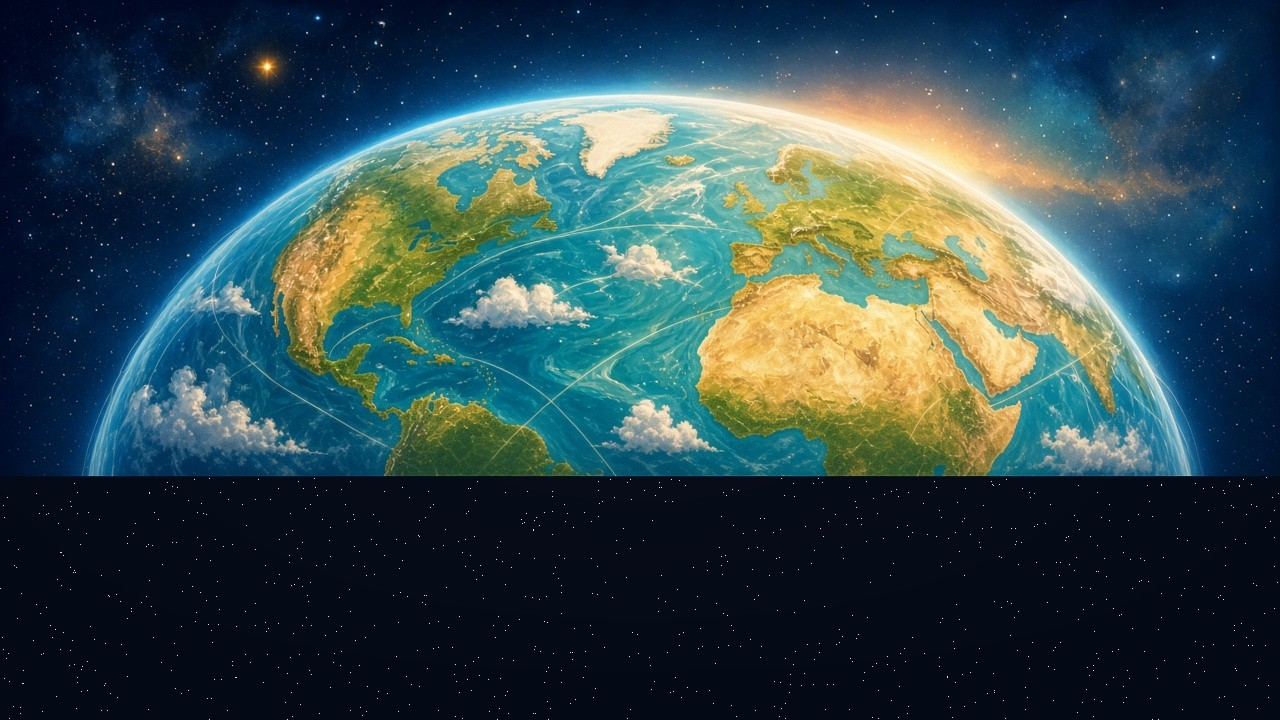
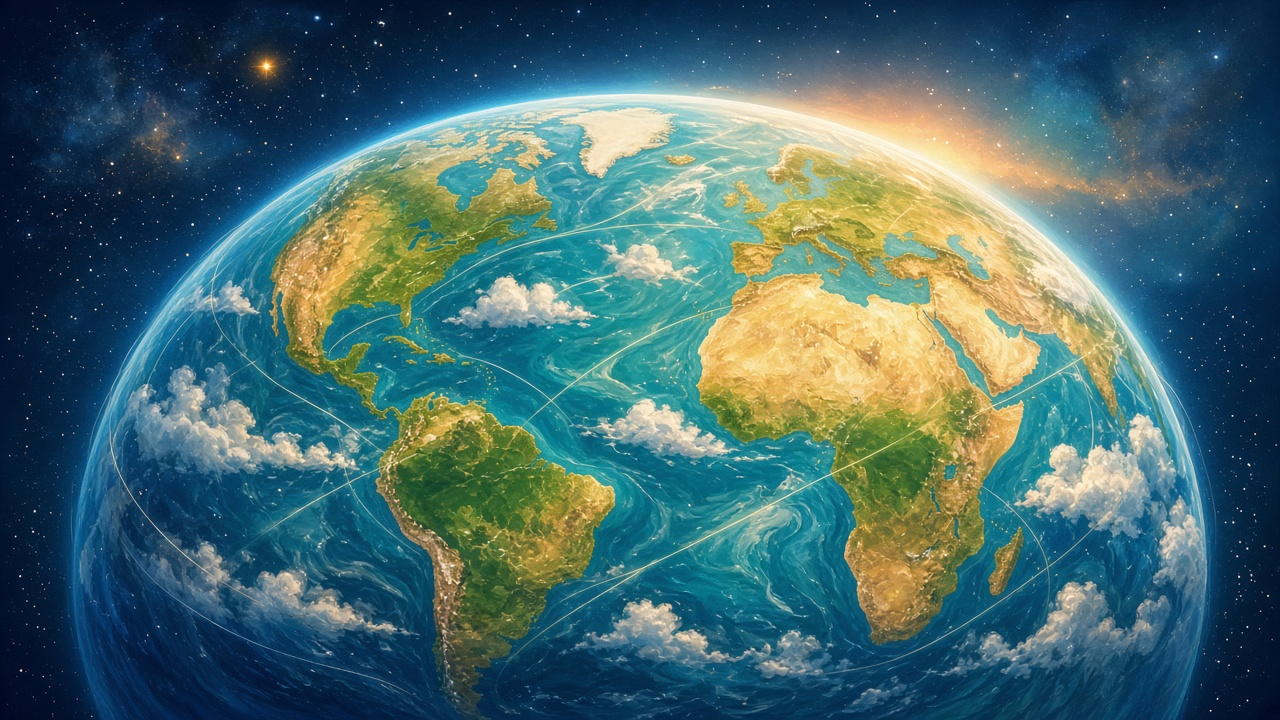
Finish Origin tip sync for world-hero and AtlasMap
Replace the truncated public/world-hero.jpg with the full 445421-byte
asset and align AtlasMap.tsx blob with michael-cricenti/atlas-daily tip.

diff --git a/src/components/AtlasMap.tsx b/src/components/AtlasMap.tsx
@@ -587,7 +587,9 @@ function WorldAtlasMap({
             c.fact?.id === targetId ||
             (highlightId && c.fact?.id === highlightId) ||
             countryMatchKey(c.name) ===
-              countryMatchKey(optionById.get(targetId)?.name ?? '')
+              countryMatchKey(
+                optionById.get(targetId)?.name ?? '',
+              )
           return (
             <path
               key={c.id}
@@ -815,18 +817,18 @@ function FallbackPinMap({
                   rx={8}
                   fill="rgba(247,244,238,0.95)"
                 />
-                  <text
-                    textAnchor="middle"
-                    y={pin.labelSecondary ? -3 : 2}
-                    style={{
-                      fontFamily: 'Nunito, sans-serif',
-                      fontSize: 13,
-                      fontWeight: 800,
-                      fill: '#0b3d4a',
-                    }}
-                  >
-                    {pin.labelPrimary}
-                  </text>
+                <text
+                  textAnchor="middle"
+                  y={pin.labelSecondary ? -3 : 2}
+                  style={{
+                    fontFamily: 'Nunito, sans-serif',
+                    fontSize: 13,
+                    fontWeight: 800,
+                    fill: '#0b3d4a',
+                  }}
+                >
+                  {pin.labelPrimary}
+                </text>
                 {pin.labelSecondary ? (
                   <text
                     textAnchor="middle"
